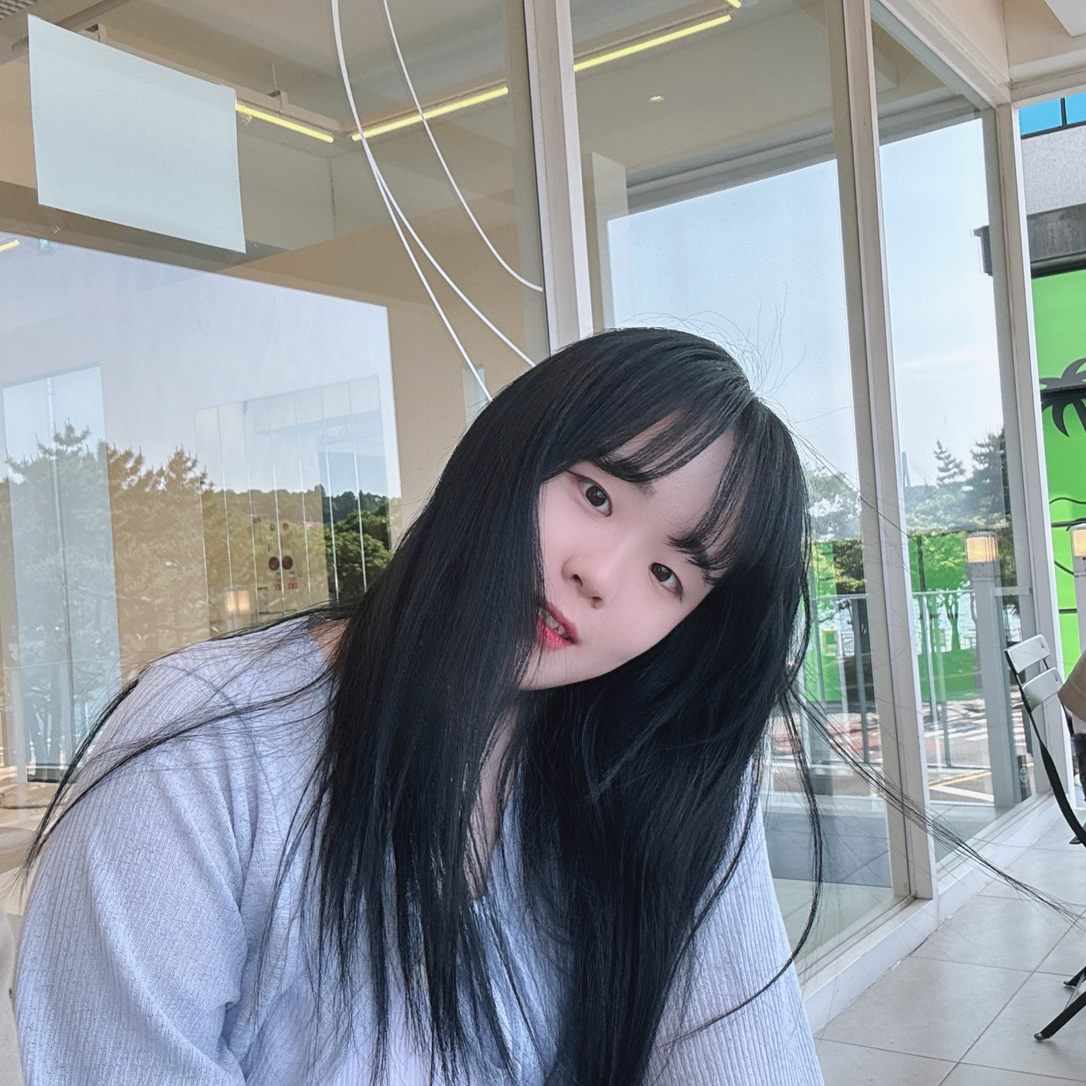
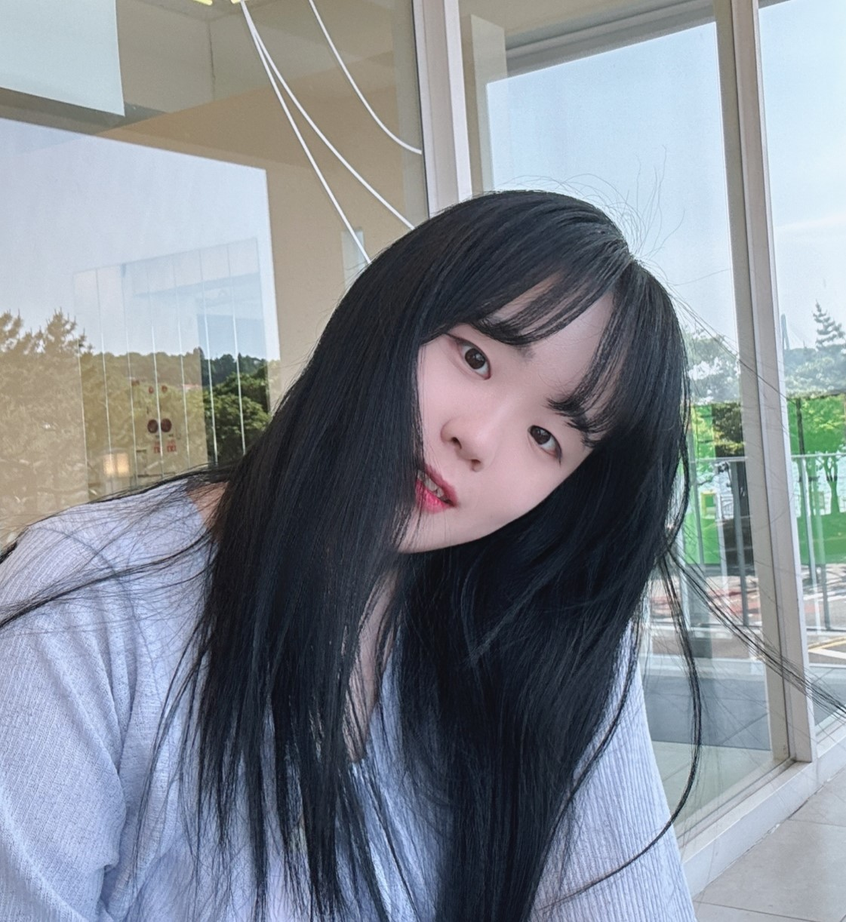
about me 시작

diff --git a/css/styles.min.css b/css/styles.min.css
@@ -1,1 +1,1 @@
-@font-face{font-family:"TheJamsil5Bold";src:url("https://fastly.jsdelivr.net/gh/projectnoonnu/noonfonts_2302_01@1.0/TheJamsil5Bold.woff2") format("woff2");font-weight:700;font-style:normal}@font-face{font-family:"TheJamsil4Medium";src:url("https://cdn.jsdelivr.net/gh/fontbee/font@main/LOTTE/TheJamsil2Light.woff2") format("woff2");font-weight:500;font-style:normal}@font-face{font-family:"TheJamsil2Light";src:url("https://cdn.jsdelivr.net/gh/fontbee/font@main/LOTTE/TheJamsil2Light.woff2") format("woff2");font-weight:300;font-style:normal}*{box-sizing:border-box}html,body{width:100%;height:100%;margin:0;overflow-x:hidden;overflow-y:auto;box-sizing:border-box;scroll-behavior:smooth}*,*::before,*::after{box-sizing:border-box}body{margin:0;font-family:"TheJamsil5Bold","TheJamsil4Medium","TheJamsil2Light",sans-serif;background-color:#1f334b;line-height:1.6;display:flex;flex-direction:column;min-height:100vh;max-width:100%}body::-webkit-scrollbar-track{-webkit-box-shadow:inset 0 0 6px rgba(0,0,0,.3);background-color:ivory;border-radius:10px}body::-webkit-scrollbar{width:10px;background-color:ivory}body::-webkit-scrollbar-thumb{z-index:100;border-radius:10px;background-image:-webkit-gradient(linear, left bottom, left top, color-stop(0.15, rgb(0, 0, 0)), color-stop(0.46, rgb(106, 159, 225)), color-stop(0.86, rgb(28, 58, 148)))}@media(max-width: 768px){body::-webkit-scrollbar-thumb body::-webkit-scrollbar{display:none}body::-webkit-scrollbar-thumb body{-ms-overflow-style:none;-webkit-scrollbar-thumb:none;scrollbar-width:none}}h1,h2{margin:.5rem 0;color:#000}h1{display:flex;align-items:center;justify-content:center;width:fit-content;position:relative;font-size:3rem}h2{font-size:2rem}section{margin-bottom:2rem}ul{list-style-type:none;padding:0;margin:.5rem}ul li{margin-bottom:.5rem;letter-spacing:1px}a{color:#000124;text-decoration:none}a:hover{text-decoration:underline}p{margin:0;font-family:"TheJamsil4Medium";letter-spacing:1px}button{padding:0;background-color:unset;border:none}button:hover{cursor:pointer}button:active{color:ivory}header{text-align:center;width:100%;margin:0 auto;display:flex;justify-content:space-between;height:4.5rem;padding:1.25rem 4rem;align-items:center;background-color:#1f334b;position:fixed;top:0;z-index:50}@media(max-width: 768px){header{justify-content:space-between;height:5rem;padding:1rem 2rem}}header .logo{font-size:1.5rem;padding:0 1rem;margin-top:.8rem}@media(max-width: 768px){header .logo{font-size:1rem}}header .Header_navigation{display:flex;align-items:center;justify-content:space-between;flex-direction:row}header .Header_navigation .navi_font{font-size:1.5rem;font-weight:700;color:ivory;padding:0 1rem;letter-spacing:3px}@media(max-width: 768px){header .Header_navigation .navi_font{font-size:1.5rem;font-weight:600;padding:.5rem 0;text-align:center}}@media(max-width: 768px){header .Header_navigation{display:none}}.hamburger{display:none;flex-direction:column;gap:5px;cursor:pointer}.hamburger div{width:30px;height:5px;background-color:ivory;border-radius:2px;transition:all .3s ease}.hamburger div:nth-child(1){transform-origin:center}.hamburger div:nth-child(2){opacity:1;transform-origin:center}.hamburger div:nth-child(3){transform-origin:center}.hamburger.active div:nth-child(1){transform:rotate(45deg) translate(7px, 7px)}.hamburger.active div:nth-child(2){opacity:0}.hamburger.active div:nth-child(3){transform:rotate(-45deg) translate(7px, -7px)}@media(max-width: 768px){.hamburger{display:flex}}.hamburger.active~.mobile_menu{display:flex}.mobile_menu{display:flex;flex-direction:row;gap:2rem;align-items:center;padding:0;position:static;z-index:auto}.mobile_menu .navi_font{font-size:18px;font-weight:500;text-align:left;cursor:pointer}@media(max-width: 768px){.mobile_menu{display:none;flex-direction:column;gap:1rem;padding:1rem;position:absolute;top:100%;left:0;right:0;z-index:1000;background-color:#1f334b;border-radius:5px}.mobile_menu.active{display:flex;animation:slide-down .3s ease-out;flex-direction:column}}@keyframes slide-down{from{opacity:0;transform:translateY(-10px)}to{opacity:1;transform:translateY(0)}}@keyframes slide-up{from{opacity:1;transform:translateY(0)}to{opacity:0;transform:translateY(-10px)}}@media(min-width: 769px){header .logo{font-size:1.5rem;padding:0 1rem}header .Header_navigation{display:flex}.hamburger{display:none}.mobile_menu{display:none}}main{margin:0 auto;padding-top:4rem;background-color:ivory;width:100%}main .main_top{background-color:ivory;max-width:1000px;height:90vh;margin:0 auto;display:flex;flex-direction:column;justify-content:center}main .main_top .main_textzone{padding:3rem 1rem}main .main_top .main_textzone .main_text{font-size:3.5rem;font-weight:700;padding-bottom:2rem;line-height:3.5rem;letter-spacing:5px}main .main_top .main_textzone .sub_text{font-size:1.5rem;font-weight:500;line-height:3rem;letter-spacing:3px}@media(max-width: 768px){main .main_top .main_textzone .sub_text{display:none}}main .main_top .main_textzone .sub_text2{font-size:1.25rem;line-height:3rem;letter-spacing:3px}main .main_top .click_me{display:flex;flex-direction:column;align-items:center;gap:.5rem}main .main_top .click_me .sub_text4{font-size:1rem;line-height:1;letter-spacing:2px}main .underbtn{border:none;display:block;text-align:center;cursor:pointer;text-transform:uppercase;outline:none;overflow:hidden;position:relative;color:#fff;background-color:#222;padding:17px 60px;margin:0 auto;box-shadow:0 5px 15px rgba(0,0,0,.2)}main .underbtn span{position:relative;z-index:1;letter-spacing:3px;font-weight:700;font-size:1rem}main .underbtn:after{content:"";position:absolute;left:0;top:0;height:490%;width:170%;background:#88baf7;transition:all .5s ease-in-out;transform:translateX(-98%) translateY(-25%) rotate(45deg);z-index:0}main .underbtn:hover:after{transform:translateX(-9%) translateY(-25%) rotate(45deg)}main .underbtn:active:after{transform:translateX(-98%) translateY(-25%) rotate(45deg)}.component{padding-top:3.5rem;padding:0rem 2rem}.mainzone{width:100%;max-width:1000px;padding:5rem 0rem 2rem;margin:0 auto;box-sizing:border-box}.mainzone .main_title{display:flex;align-items:center;justify-content:center;width:fit-content;position:relative;margin:0 auto 3rem;font-size:3rem}.mainzone .main_title h1{letter-spacing:3px;border-bottom-width:1px;border-bottom-style:solid}.skillzone{display:flex;justify-content:center;gap:2rem;padding:2rem 3rem;flex-wrap:nowrap}.skillzone .skill_back{padding:1.5rem;width:33%;display:flex;flex-direction:column;background-color:rgba(255,255,255,.8);box-shadow:0 0 .5rem rgba(68,68,68,.4);border-radius:1rem;transition:transform .2s linear;position:relative;overflow:hidden}.skillzone .skill_header{width:100%;height:12px;background-color:orange;border-top-left-radius:1rem;border-top-right-radius:1rem;position:absolute;top:0;left:0}.skillzone .skill_back:hover{transform:scale(1.1)}.skillzone .sk_title{padding:.5rem 0}.skillzone .sk_title>h2{line-height:1rem;letter-spacing:1px}.skillzone .skill_box{margin-right:20px;float:left;padding:.5rem;position:relative}.skillzone .sk_detail{float:left;line-height:3rem}.skillzone .sk_detail>li{height:3rem;margin-bottom:1rem;display:flex;align-items:center}.skillzone .sk_detail .logobox{float:left;margin-right:2rem;width:56px;height:56px;padding:5px;position:relative;border-radius:10px;background-color:#fff;box-shadow:-1px 2px 8px rgba(0,0,0,.1)}.skillzone .sk_detail>span{font-weight:300;font-family:"TheJamsil2Light"}@media(max-width: 768px){.skillzone{flex-direction:column;align-items:center;padding:0}.skillzone .skill_back{position:relative;width:100%;padding-bottom:0;transition:none}.skillzone .skill_back:hover{transform:none}.skillzone .sk_title{width:100%;cursor:pointer;padding:1rem}.skillzone .sk_detail{max-height:0;overflow:hidden;transition:max-height .6s ease-out}.skillzone .sk_detail.show{max-height:1000px}}.porjectzone{display:flex;flex-wrap:wrap;justify-content:center;gap:2rem}.porjectzone .card{width:30rem;height:auto;perspective:1000px;position:relative;opacity:0;transform:translateY(50px);transition:opacity .6s ease-out,transform .6s ease-out}.porjectzone .card.visible{opacity:1;transform:translateY(0)}.porjectzone .card-front{position:relative;width:100%;height:auto;border-radius:10px;padding:1rem;display:flex;flex-direction:column;background-color:#fff;box-shadow:0 0 .5rem rgba(68,68,68,.4)}.porjectzone .card-front .card-title{align-self:flex-start;padding:.25rem .75rem;margin-bottom:.5rem;background-color:#1f334b;opacity:.9;border-radius:.5rem;font-size:1rem;color:#fff;letter-spacing:.5px}.porjectzone .card-front .title-detail{padding-bottom:.5rem;margin-bottom:.5rem;border-bottom:1px solid #ccc;font-size:.75rem;color:#6c757d;font-family:"TheJamsil4Medium";letter-spacing:.5px}.porjectzone .card-front .project_summary{word-break:break-word;overflow-wrap:break-word;display:flex;flex-direction:column;gap:1rem}.porjectzone .card-front .project_summary .title{margin-bottom:.5rem;font-size:1.25rem;letter-spacing:1px}.porjectzone .card-front .project_summary .detail{list-style:disc;font-size:.875rem;font-family:"TheJamsil4Medium";letter-spacing:1px}@media(max-width: 768px){.porjectzone .card-front .project_summary .detail{letter-spacing:0}}.porjectzone .card-front .project_summary .url{padding-left:.75rem;border-left:4px solid #5385c3;font-size:.875rem;color:#5385c3;word-break:break-word;display:block;max-width:100%}.porjectzone .card-front .project_summary .url a{color:#5385c3;text-decoration:none;font-family:"TheJamsil4Medium";line-height:2rem;word-break:break-word}.porjectzone .card-front .taskbox{padding:.25rem .75rem;background-color:rgba(248,152,42,.2);border:1px solid #fbb752;border-radius:.5rem;font-size:.875rem;font-weight:300;font-family:"TheJamsil2Light"}.porjectzone .card-front .taskbox2{padding:.25rem .75rem;background-color:rgba(249,197,29,.2);border:1px solid #fbb752;border-radius:.5rem;font-size:.875rem;font-weight:300;font-family:"TheJamsil2Light"}.porjectzone .card-front .cardbtnzone{margin-top:1rem;display:flex;justify-content:flex-end}.porjectzone .card-front .cardbtnzone .card-btn{--button_radius: 0.75em;--button_color: #ffbc41;opacity:.8;--button_outline_color: #000000;font-size:17px;font-weight:bold;border:none;cursor:pointer;border-radius:var(--button_radius);background:var(--button_outline_color)}.porjectzone .card-front .cardbtnzone .card-btn .button_top{display:block;box-sizing:border-box;border:2px solid var(--button_outline_color);border-radius:var(--button_radius);padding:.45em 1em;background:var(--button_color);color:var(--button_outline_color);transform:translateY(-0.2em);transition:transform .1s ease}.porjectzone .card-front .cardbtnzone .card-btn:hover .button_top{transform:translateY(-0.33em)}.porjectzone .card-front .cardbtnzone .card-btn:active .button_top{transform:translateY(0)}@media(max-width: 768px){.porjectzone .card{width:100%;height:auto;margin-bottom:2rem}.porjectzone .project_summary{gap:.5rem;font-size:.85rem}.porjectzone .url{word-break:break-word;font-size:.8rem}}footer{text-align:center;padding:1rem;background-color:#111;border-top:1px solid #444;font-size:.8rem;color:ivory}
+@font-face{font-family:"TheJamsil5Bold";src:url("https://fastly.jsdelivr.net/gh/projectnoonnu/noonfonts_2302_01@1.0/TheJamsil5Bold.woff2") format("woff2");font-weight:700;font-style:normal}@font-face{font-family:"TheJamsil4Medium";src:url("https://cdn.jsdelivr.net/gh/fontbee/font@main/LOTTE/TheJamsil2Light.woff2") format("woff2");font-weight:500;font-style:normal}@font-face{font-family:"TheJamsil2Light";src:url("https://cdn.jsdelivr.net/gh/fontbee/font@main/LOTTE/TheJamsil2Light.woff2") format("woff2");font-weight:300;font-style:normal}*{box-sizing:border-box}html,body{width:100%;height:100%;margin:0;overflow-x:hidden;overflow-y:auto;box-sizing:border-box;scroll-behavior:smooth}*,*::before,*::after{box-sizing:border-box}body{margin:0;font-family:"TheJamsil5Bold","TheJamsil4Medium","TheJamsil2Light",sans-serif;background-color:#1f334b;line-height:1.6;display:flex;flex-direction:column;min-height:100vh;max-width:100%}body::-webkit-scrollbar-track{-webkit-box-shadow:inset 0 0 6px rgba(0,0,0,.3);background-color:ivory;border-radius:10px}body::-webkit-scrollbar{width:10px;background-color:ivory}body::-webkit-scrollbar-thumb{z-index:100;border-radius:10px;background-image:-webkit-gradient(linear, left bottom, left top, color-stop(0.15, rgb(0, 0, 0)), color-stop(0.46, rgb(106, 159, 225)), color-stop(0.86, rgb(28, 58, 148)))}@media(max-width: 768px){body::-webkit-scrollbar-thumb body::-webkit-scrollbar{display:none}body::-webkit-scrollbar-thumb body{-ms-overflow-style:none;-webkit-scrollbar-thumb:none;scrollbar-width:none}}h1,h2{margin:.5rem 0;color:#000}h1{display:flex;align-items:center;justify-content:center;width:fit-content;position:relative;font-size:3rem}h2{font-size:2rem}section{margin-bottom:2rem}ul{list-style-type:none;padding:0;margin:.5rem}ul li{margin-bottom:.5rem;letter-spacing:1px}a{color:#000124;text-decoration:none}a:hover{text-decoration:underline}p{margin:0;font-family:"TheJamsil4Medium";letter-spacing:1px}button{padding:0;background-color:unset;border:none}button:hover{cursor:pointer}button:active{color:ivory}header{text-align:center;width:100%;margin:0 auto;display:flex;justify-content:space-between;height:4.5rem;padding:1.25rem 4rem;align-items:center;background-color:#1f334b;position:fixed;top:0;z-index:50}@media(max-width: 768px){header{justify-content:space-between;height:5rem;padding:1rem 2rem}}header .logo{font-size:1.5rem;padding:0 1rem;margin-top:.8rem}@media(max-width: 768px){header .logo{font-size:1rem}}header .Header_navigation{display:flex;align-items:center;justify-content:space-between;flex-direction:row}header .Header_navigation .navi_font{font-size:1.5rem;font-weight:700;color:ivory;padding:0 1rem;letter-spacing:3px}@media(max-width: 768px){header .Header_navigation .navi_font{font-size:1.5rem;font-weight:600;padding:.5rem 0;text-align:center}}@media(max-width: 768px){header .Header_navigation{display:none}}.hamburger{display:none;flex-direction:column;gap:5px;cursor:pointer}.hamburger div{width:30px;height:5px;background-color:ivory;border-radius:2px;transition:all .3s ease}.hamburger div:nth-child(1){transform-origin:center}.hamburger div:nth-child(2){opacity:1;transform-origin:center}.hamburger div:nth-child(3){transform-origin:center}.hamburger.active div:nth-child(1){transform:rotate(45deg) translate(7px, 7px)}.hamburger.active div:nth-child(2){opacity:0}.hamburger.active div:nth-child(3){transform:rotate(-45deg) translate(7px, -7px)}@media(max-width: 768px){.hamburger{display:flex}}.hamburger.active~.mobile_menu{display:flex}.mobile_menu{display:flex;flex-direction:row;gap:2rem;align-items:center;padding:0;position:static;z-index:auto}.mobile_menu .navi_font{font-size:18px;font-weight:500;text-align:left;cursor:pointer}@media(max-width: 768px){.mobile_menu{display:none;flex-direction:column;gap:1rem;padding:1rem;position:absolute;top:100%;left:0;right:0;z-index:1000;background-color:#1f334b;border-radius:5px}.mobile_menu.active{display:flex;animation:slide-down .3s ease-out;flex-direction:column}}@keyframes slide-down{from{opacity:0;transform:translateY(-10px)}to{opacity:1;transform:translateY(0)}}@keyframes slide-up{from{opacity:1;transform:translateY(0)}to{opacity:0;transform:translateY(-10px)}}@media(min-width: 769px){header .logo{font-size:1.5rem;padding:0 1rem}header .Header_navigation{display:flex}.hamburger{display:none}.mobile_menu{display:none}}main{margin:0 auto;padding-top:4rem;background-color:ivory;width:100%}main .main_top{background-color:ivory;max-width:1000px;height:90vh;margin:0 auto;display:flex;flex-direction:column;justify-content:center}main .main_top .main_textzone{padding:3rem 1rem}main .main_top .main_textzone .main_text{font-size:3.5rem;font-weight:700;padding-bottom:2rem;line-height:3.5rem;letter-spacing:5px}main .main_top .main_textzone .sub_text{font-size:1.5rem;font-weight:500;line-height:3rem;letter-spacing:3px}@media(max-width: 768px){main .main_top .main_textzone .sub_text{display:none}}main .main_top .main_textzone .sub_text2{font-size:1.25rem;line-height:3rem;letter-spacing:3px}main .main_top .click_me{display:flex;flex-direction:column;align-items:center;gap:.5rem}main .main_top .click_me .sub_text4{font-size:1rem;line-height:1;letter-spacing:2px}main .underbtn{border:none;display:block;text-align:center;cursor:pointer;text-transform:uppercase;outline:none;overflow:hidden;position:relative;color:#fff;background-color:#222;padding:17px 60px;margin:0 auto;box-shadow:0 5px 15px rgba(0,0,0,.2)}main .underbtn span{position:relative;z-index:1;letter-spacing:3px;font-weight:700;font-size:1rem}main .underbtn:after{content:"";position:absolute;left:0;top:0;height:490%;width:170%;background:#88baf7;transition:all .5s ease-in-out;transform:translateX(-98%) translateY(-25%) rotate(45deg);z-index:0}main .underbtn:hover:after{transform:translateX(-9%) translateY(-25%) rotate(45deg)}main .underbtn:active:after{transform:translateX(-98%) translateY(-25%) rotate(45deg)}.component{padding-top:3.5rem;padding:0rem 2rem}.mainzone{width:100%;max-width:1000px;padding:5rem 0rem 2rem;margin:0 auto;box-sizing:border-box}.mainzone .main_title{display:flex;align-items:center;justify-content:center;width:fit-content;position:relative;margin:0 auto 3rem;font-size:3rem}.mainzone .main_title h1{letter-spacing:3px;border-bottom-width:1px;border-bottom-style:solid}.aboutzone{display:flex;justify-content:center;gap:2rem}.aboutzone .about_photo{display:flex;align-items:center;flex-direction:column}.aboutzone .about_wrap{display:flex;flex-wrap:wrap;flex-direction:row;align-content:center;gap:2rem}.aboutzone .about_wrap .about_info{display:flex;flex-direction:row;justify-content:center;align-items:center;padding:0 1rem}.aboutzone .about_wrap .about_info .info_detail{padding-right:1rem;display:flex;flex-wrap:nowrap;column-gap:2rem;max-width:14rem;margin:0 auto;opacity:.8}.aboutzone .about_wrap .about_info .info_side{display:flex;flex-direction:column;align-items:center;gap:.1rem}.aboutzone .about_wrap .about_info .info_side .info_title{font-weight:700;font-size:1rem}.aboutzone .about_wrap .about_info .info_side .info_text{font-family:"TheJamsil4Medium";font-size:.875rem;white-space:pre-wrap}.skillzone{display:flex;justify-content:center;gap:2rem;padding:2rem 3rem;flex-wrap:nowrap}.skillzone .skill_back{padding:1.5rem;width:33%;display:flex;flex-direction:column;background-color:rgba(255,255,255,.8);box-shadow:0 0 .5rem rgba(68,68,68,.4);border-radius:1rem;transition:transform .2s linear;position:relative;overflow:hidden}.skillzone .skill_header{width:100%;height:12px;background-color:orange;border-top-left-radius:1rem;border-top-right-radius:1rem;position:absolute;top:0;left:0}.skillzone .skill_back:hover{transform:scale(1.1)}.skillzone .sk_title{padding:.5rem 0}.skillzone .sk_title>h2{line-height:1rem;letter-spacing:1px}.skillzone .skill_box{margin-right:20px;float:left;padding:.5rem;position:relative}.skillzone .sk_detail{float:left;line-height:3rem}.skillzone .sk_detail>li{height:3rem;margin-bottom:1rem;display:flex;align-items:center}.skillzone .sk_detail .logobox{float:left;margin-right:2rem;width:56px;height:56px;padding:5px;position:relative;border-radius:10px;background-color:#fff;box-shadow:-1px 2px 8px rgba(0,0,0,.1)}.skillzone .sk_detail>span{font-weight:300;font-family:"TheJamsil2Light"}@media(max-width: 768px){.skillzone{flex-direction:column;align-items:center;padding:0}.skillzone .skill_back{position:relative;width:100%;padding-bottom:0;transition:none}.skillzone .skill_back:hover{transform:none}.skillzone .sk_title{width:100%;cursor:pointer;padding:1rem}.skillzone .sk_detail{max-height:0;overflow:hidden;transition:max-height .6s ease-out}.skillzone .sk_detail.show{max-height:1000px}}.porjectzone{display:flex;flex-wrap:wrap;justify-content:center;gap:2rem}.porjectzone .card{width:30rem;height:auto;perspective:1000px;position:relative;opacity:0;transform:translateY(50px);transition:opacity .6s ease-out,transform .6s ease-out}.porjectzone .card.visible{opacity:1;transform:translateY(0)}.porjectzone .card-front{position:relative;width:100%;height:auto;border-radius:10px;padding:1rem;display:flex;flex-direction:column;background-color:#fff;box-shadow:0 0 .5rem rgba(68,68,68,.4)}.porjectzone .card-front .card-title{align-self:flex-start;padding:.25rem .75rem;margin-bottom:.5rem;background-color:#1f334b;opacity:.9;border-radius:.5rem;font-size:1rem;color:#fff;letter-spacing:.5px}.porjectzone .card-front .title-detail{padding-bottom:.5rem;margin-bottom:.5rem;border-bottom:1px solid #ccc;font-size:.75rem;color:#6c757d;font-family:"TheJamsil4Medium";letter-spacing:.5px}.porjectzone .card-front .project_summary{word-break:break-word;overflow-wrap:break-word;display:flex;flex-direction:column;gap:1rem}.porjectzone .card-front .project_summary .title{margin-bottom:.5rem;font-size:1.25rem;letter-spacing:1px}.porjectzone .card-front .project_summary .detail{list-style:disc;font-size:.875rem;font-family:"TheJamsil4Medium";letter-spacing:1px}@media(max-width: 768px){.porjectzone .card-front .project_summary .detail{letter-spacing:0}}.porjectzone .card-front .project_summary .url{padding-left:.75rem;border-left:4px solid #5385c3;font-size:.875rem;color:#5385c3;word-break:break-word;display:block;max-width:100%}.porjectzone .card-front .project_summary .url a{color:#5385c3;text-decoration:none;font-family:"TheJamsil4Medium";line-height:2rem;word-break:break-word}.porjectzone .card-front .taskbox{padding:.25rem .75rem;background-color:rgba(248,152,42,.2);border:1px solid #fbb752;border-radius:.5rem;font-size:.875rem;font-weight:300;font-family:"TheJamsil2Light"}.porjectzone .card-front .taskbox2{padding:.25rem .75rem;background-color:rgba(249,197,29,.2);border:1px solid #fbb752;border-radius:.5rem;font-size:.875rem;font-weight:300;font-family:"TheJamsil2Light"}.porjectzone .card-front .cardbtnzone{margin-top:1rem;display:flex;justify-content:flex-end}.porjectzone .card-front .cardbtnzone .card-btn{--button_radius: 0.75em;--button_color: #ffbc41;opacity:.8;--button_outline_color: #000000;font-size:17px;font-weight:bold;border:none;cursor:pointer;border-radius:var(--button_radius);background:var(--button_outline_color)}.porjectzone .card-front .cardbtnzone .card-btn .button_top{display:block;box-sizing:border-box;border:2px solid var(--button_outline_color);border-radius:var(--button_radius);padding:.45em 1em;background:var(--button_color);color:var(--button_outline_color);transform:translateY(-0.2em);transition:transform .1s ease}.porjectzone .card-front .cardbtnzone .card-btn:hover .button_top{transform:translateY(-0.33em)}.porjectzone .card-front .cardbtnzone .card-btn:active .button_top{transform:translateY(0)}@media(max-width: 768px){.porjectzone .card{width:100%;height:auto;margin-bottom:2rem}.porjectzone .project_summary{gap:.5rem;font-size:.85rem}.porjectzone .url{word-break:break-word;font-size:.8rem}}footer{text-align:center;padding:1rem;background-color:#111;border-top:1px solid #444;font-size:.8rem;color:ivory}

diff --git a/index.html b/index.html
@@ -71,20 +71,137 @@
             />
             <h1>About Me</h1>
           </div>
-          <h2>조예나 입니다</h2>
-          <div class="detail"></div>
-          <p>
-            Hello! I am a frontend developer and project manager passionate
-            about creating beautiful and functional websites.
-          </p>
-          <p>
-            Hello! I am a frontend developer and project manager passionate
-            about creating beautiful and functional websites.
-          </p>
-          <p>
-            Hello! I am a frontend developer and project manager passionate
-            about creating beautiful and functional websites.
-          </p>
+          <div class="aboutzone">
+            <div class="about_photo">
+              <img
+                style="
+                  border: 1px solid black;
+                  border-radius: 100%;
+                  width: 20rem;
+                  height: 21rem;
+                "
+                src="img/yyyenaa1.jpg"
+                alt="Yena Jo"
+              />
+              <h2>조예나 입니다</h2>
+            </div>
+            <div class="about_wrap">
+              <div class="about_info">
+                <div class="info_detail">
+                  <img
+                    style="
+                      position: relative;
+                      flex-shrink: 0;
+                      width: 3rem;
+                      height: 3rem;
+                      margin-top: 0.2rem;
+                    "
+                    src="img/about_svg/calender.svg"
+                    alt="about icon"
+                  />
+                </div>
+                <div class="info_side">
+                  <div class="info_title">NAME</div>
+                  <div class="info_text">조 예 나</div>
+                </div>
+              </div>
+              <div class="about_info">
+                <div class="info_detail">
+                  <img
+                    style="
+                      position: relative;
+                      flex-shrink: 0;
+                      width: 3rem;
+                      height: 3rem;
+                      margin-top: 0.2rem;
+                    "
+                    src="img/about_svg/calender.svg"
+                    alt="about icon"
+                  />
+                </div>
+                <div class="info_side">
+                  <div class="info_title">BIRTHDAY</div>
+                  <div class="info_text">2002.01.18</div>
+                </div>
+              </div>
+              <div class="about_info">
+                <div class="info_detail">
+                  <img
+                    style="
+                      position: relative;
+                      flex-shrink: 0;
+                      width: 3rem;
+                      height: 3rem;
+                      margin-top: 0.2rem;
+                    "
+                    src="img/about_svg/phone.svg"
+                    alt="phone"
+                  />
+                </div>
+                <div class="info_side">
+                  <div class="info_title">NUMBER</div>
+                  <div class="info_text">010-7715-0958</div>
+                </div>
+              </div>
+              <div class="about_info">
+                <div class="info_detail">
+                  <img
+                    style="
+                      position: relative;
+                      flex-shrink: 0;
+                      width: 3rem;
+                      height: 3rem;
+                      margin-top: 0.2rem;
+                    "
+                    src="img/about_svg/calender.svg"
+                    alt="e-mail"
+                  />
+                </div>
+                <div class="info_side">
+                  <div class="info_title">E-MAIL</div>
+                  <div class="info_text">dpsk185@naver.com</div>
+                </div>
+              </div>
+              <div class="about_info">
+                <div class="info_detail">
+                  <img
+                    style="
+                      position: relative;
+                      flex-shrink: 0;
+                      width: 3rem;
+                      height: 3rem;
+                      margin-top: 0.2rem;
+                    "
+                    src="img/about_svg/calender.svg"
+                    alt="about icon"
+                  />
+                </div>
+                <div class="info_side">
+                  <div class="info_title">Github</div>
+                  <div class="info_text">yyyenaak</div>
+                </div>
+              </div>
+              <div class="about_info">
+                <div class="info_detail">
+                  <img
+                    style="
+                      position: relative;
+                      flex-shrink: 0;
+                      width: 3rem;
+                      height: 3rem;
+                      margin-top: 0.2rem;
+                    "
+                    src="img/about_svg/calender.svg"
+                    alt="about icon"
+                  />
+                </div>
+                <div class="info_side">
+                  <div class="info_title">생년월일</div>
+                  <div class="info_text">2002.01.18</div>
+                </div>
+              </div>
+            </div>
+          </div>
         </div>
       </section>
 

diff --git a/css/scss/dist/styles.css b/css/scss/dist/styles.css
@@ -433,6 +433,55 @@ main .underbtn:active:after {
   border-bottom-style: solid;
 }
 
+.aboutzone {
+  display: flex;
+  justify-content: center;
+  gap: 2rem;
+}
+.aboutzone .about_photo {
+  display: flex;
+  align-items: center;
+  flex-direction: column;
+}
+.aboutzone .about_wrap {
+  display: flex;
+  flex-wrap: wrap;
+  flex-direction: row;
+  align-content: center;
+  gap: 2rem;
+}
+.aboutzone .about_wrap .about_info {
+  display: flex;
+  flex-direction: row;
+  justify-content: center;
+  align-items: center;
+  padding: 0 1rem;
+}
+.aboutzone .about_wrap .about_info .info_detail {
+  padding-right: 1rem;
+  display: flex;
+  flex-wrap: nowrap;
+  column-gap: 2rem;
+  max-width: 14rem;
+  margin: 0 auto;
+  opacity: 0.8;
+}
+.aboutzone .about_wrap .about_info .info_side {
+  display: flex;
+  flex-direction: column;
+  align-items: center;
+  gap: 0.1rem;
+}
+.aboutzone .about_wrap .about_info .info_side .info_title {
+  font-weight: 700;
+  font-size: 1rem;
+}
+.aboutzone .about_wrap .about_info .info_side .info_text {
+  font-family: "TheJamsil4Medium";
+  font-size: 0.875rem;
+  white-space: pre-wrap;
+}
+
 .skillzone {
   display: flex;
   justify-content: center;

diff --git a/css/styles.css b/css/styles.css
@@ -427,6 +427,55 @@ main .underbtn:active:after {
   border-bottom-style: solid;
 }
 
+.aboutzone {
+  display: flex;
+  justify-content: center;
+  gap: 2rem;
+}
+.aboutzone .about_photo {
+  display: flex;
+  align-items: center;
+  flex-direction: column;
+}
+.aboutzone .about_wrap {
+  display: flex;
+  flex-wrap: wrap;
+  flex-direction: row;
+  align-content: center;
+  gap: 2rem;
+}
+.aboutzone .about_wrap .about_info {
+  display: flex;
+  flex-direction: row;
+  justify-content: center;
+  align-items: center;
+  padding: 0 1rem;
+}
+.aboutzone .about_wrap .about_info .info_detail {
+  padding-right: 1rem;
+  display: flex;
+  flex-wrap: nowrap;
+  column-gap: 2rem;
+  max-width: 14rem;
+  margin: 0 auto;
+  opacity: 0.8;
+}
+.aboutzone .about_wrap .about_info .info_side {
+  display: flex;
+  flex-direction: column;
+  align-items: center;
+  gap: 0.1rem;
+}
+.aboutzone .about_wrap .about_info .info_side .info_title {
+  font-weight: 700;
+  font-size: 1rem;
+}
+.aboutzone .about_wrap .about_info .info_side .info_text {
+  font-family: "TheJamsil4Medium";
+  font-size: 0.875rem;
+  white-space: pre-wrap;
+}
+
 .skillzone {
   display: flex;
   justify-content: center;

diff --git a/css/scss/styles.scss b/css/scss/styles.scss
@@ -478,6 +478,60 @@ main {
   }
 }
 
+.aboutzone {
+  display: flex;
+  justify-content: center;
+  gap: 2rem;
+
+  .about_photo {
+    display: flex;
+    align-items: center;
+    flex-direction: column;
+  }
+  .about_wrap {
+    display: flex;
+    flex-wrap: wrap;
+    flex-direction: row;
+    align-content: center;
+    gap: 2rem;
+
+    .about_info {
+      display: flex;
+      flex-direction: row;
+      justify-content: center;
+      align-items: center;
+      padding: 0 1rem;
+
+      .info_detail {
+        padding-right: 1rem;
+        display: flex;
+        flex-wrap: nowrap;
+        column-gap: 2rem;
+        max-width: 14rem;
+        margin: 0 auto;
+        opacity: 0.8;
+      }
+      .info_side {
+        display: flex;
+        flex-direction: column;
+        align-items: center;
+        gap: 0.1rem;
+
+        .info_title {
+          font-weight: 700;
+          font-size: 1rem;
+        }
+
+        .info_text {
+          font-family: "TheJamsil4Medium";
+          font-size: 0.875rem;
+          white-space: pre-wrap;
+        }
+      }
+    }
+  }
+}
+
 .skillzone {
   display: flex;
   justify-content: center;
